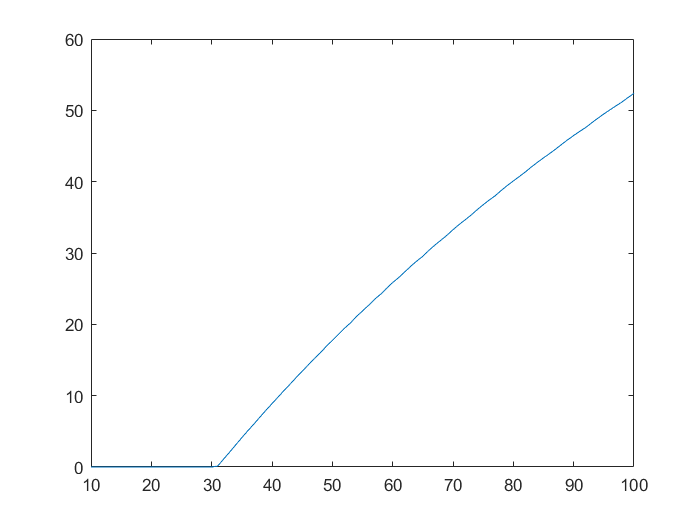
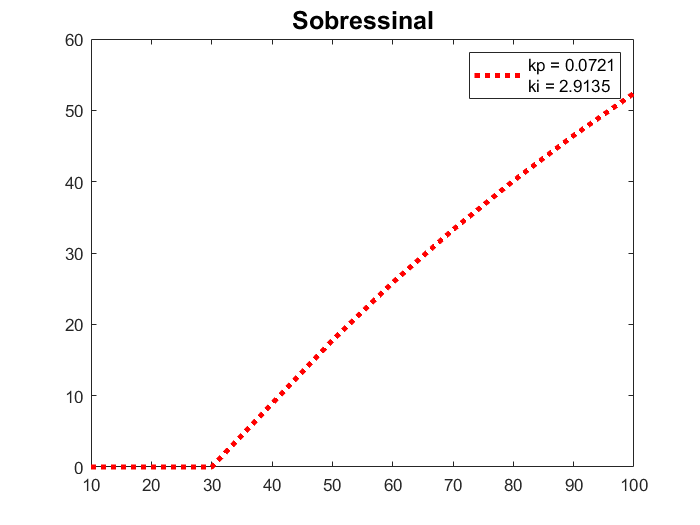
variando kp, ki cte

diff --git a/Laboratório/Atividade 7 - 18_10_23_Controlador PI/Atividade7.m b/Laboratório/Atividade 7 - 18_10_23_Controlador PI/Atividade7.m
@@ -6,16 +6,16 @@ close all; clc; clear;
 % sistemas dinâmicos em malha fechada. Simulação computacional de sistemas
 % de controle em malha fechada com controlador Proporcional-Integral.
 
-Km = 0.06;   % [N.m/A]
-J = 80.45e-6;   % [kg.m²]
-Cphi = 0.06; % [V/s]
-Ra = 2.5;    % [Ω]
-La = 75e-3;     % [H]
+Km = 0.06;    % [N.m/A]
+J = 80.45e-6; % [kg.m²]
+Cphi = 0.06;  % [V/s]
+Ra = 2.5;     % [Ω]
+La = 75e-3;   % [H]
 
 %% Parte A
 % 1) Crie um script ou live script no Matlab e defina um vetor c que varia
 % de 0,1 a 1,0 com passo de 0,1.
-c = 0.1:0.01:1;
+c = 0.1:0.1:1;
 
 % 2) Modele novamente a função transferência de controle de velocidade do 
 % motor CC (Gw(s)) utilizada nas atividades passadas.
@@ -51,7 +51,7 @@ Gw = tf(num, den) % Atividade 6
 % Tempo_ac(cont) = Info.SettlingTime;
 
 kp = 0.0721;  % da Atividade 6
-ki = 2.9135; % da Atividade 6
+ki = 2.9135;  % da Atividade 6
 
 num1 = ki;
 den1 = [1 0];
@@ -68,14 +68,19 @@ for cont = 1:length(c)
     sys1 = Gpi*Gw;
     GmfPI = feedback(sys1,sys2);
   
-    step(GmfPI)
+    plot(step(GmfPI), 'LineWidth', 2)
 
     hold on;
 
     Info = stepinfo(GmfPI);
     Sobressinal(cont) = Info.Overshoot; 
     Tempo_ac(cont) = Info.SettlingTime; 
+    % Adicionando legenda
+    legenda_str = sprintf('%.0f%% de ki', c(cont)*100);
+    legend_entries{cont} = legenda_str;
 end
+title('Step response kp cte','FontSize', 15)
+legend(legend_entries, 'FontSize', 10, Location = 'southeast')
 
 % 4) Após o laço for, utilize a função plot() para obter os gráficos de
 % sobressinal em função do vetor c*100 e tempo de acomodação em função do 
@@ -84,7 +89,53 @@ end
 % anteriormente.
 
 figure(2)
-plot(c*100, Sobressinal)
+plot(c*100, Sobressinal, 'Color', 'r', 'LineWidth', 3,'LineStyle',':')
+title('Sobressinal kp cte','FontSize', 15)
+legend(sprintf('kp = 0.0721\nki = 2.9135'),'FontSize', 10)
 
 figure(3)
-plot(c*100, Tempo_ac)
+plot(c*100, Tempo_ac, 'Color', 'b', 'LineWidth', 3,'LineStyle','-')
+title('Tempo de acomodação kp cte','FontSize', 15)
+legend(sprintf('kp = 0.0721\nki = 2.9135'),'FontSize', 10)
+
+% 5) Com base nos gráficos obtidos, comente sobre a influência do aumento 
+% do ganho ki no comportamento da resposta ao degrau unitário do sistema de 
+% controle de velocidade em malha fechada.
+
+disp(fprintf(['5) Quanto maior a porcentagem de ki, maior a resposta ao ' ...
+    'degrau unitário e com maior número de oscilações.\nAlém disso, a' ...
+    ' partir de 30%% de ki, podemos ver um sobressinal > 0 e maior a ' ...
+    'cada aumento da porcentagem.\nPor fim, vemos que o menor tempo de' ...
+    'acomodação ocorre quando utilizamos 40%% de ki.']));
+% 6) Repita os itens 2, 3, 4 e 5 multiplicando o ganho kp pelo vetor c.
+% Mantenha o ganho ki fixo em seu valor original.
+
+figure(4)
+for cont = 1:length(c)
+    Gpi = pid(c(cont)*kp,ki,0,0);
+    sys1 = Gpi*Gw;
+    GmfPI = feedback(sys1,sys2);
+  
+    plot(step(GmfPI), 'LineWidth', 2)
+
+    hold on;
+
+    Info = stepinfo(GmfPI);
+    Sobressinal(cont) = Info.Overshoot; 
+    Tempo_ac(cont) = Info.SettlingTime; 
+    % Adicionando legenda
+    legenda_str = sprintf('%.0f%% de kp', c(cont)*100);
+    legend_entries{cont} = legenda_str;
+end
+title('Step response ki cte','FontSize', 15)
+legend(legend_entries, 'FontSize', 10, Location = 'southeast')
+
+figure(5)
+plot(c*100, Sobressinal, 'Color', 'r', 'LineWidth', 3,'LineStyle',':')
+title('Sobressinal ki cte','FontSize', 15)
+legend(sprintf('kp = 0.0721\nki = 2.9135'),'FontSize', 10)
+
+figure(6)
+plot(c*100, Tempo_ac, 'Color', 'b', 'LineWidth', 3,'LineStyle','-')
+title('Tempo de acomodação ki cte','FontSize', 15)
+legend(sprintf('kp = 0.0721\nki = 2.9135'),'FontSize', 10)
